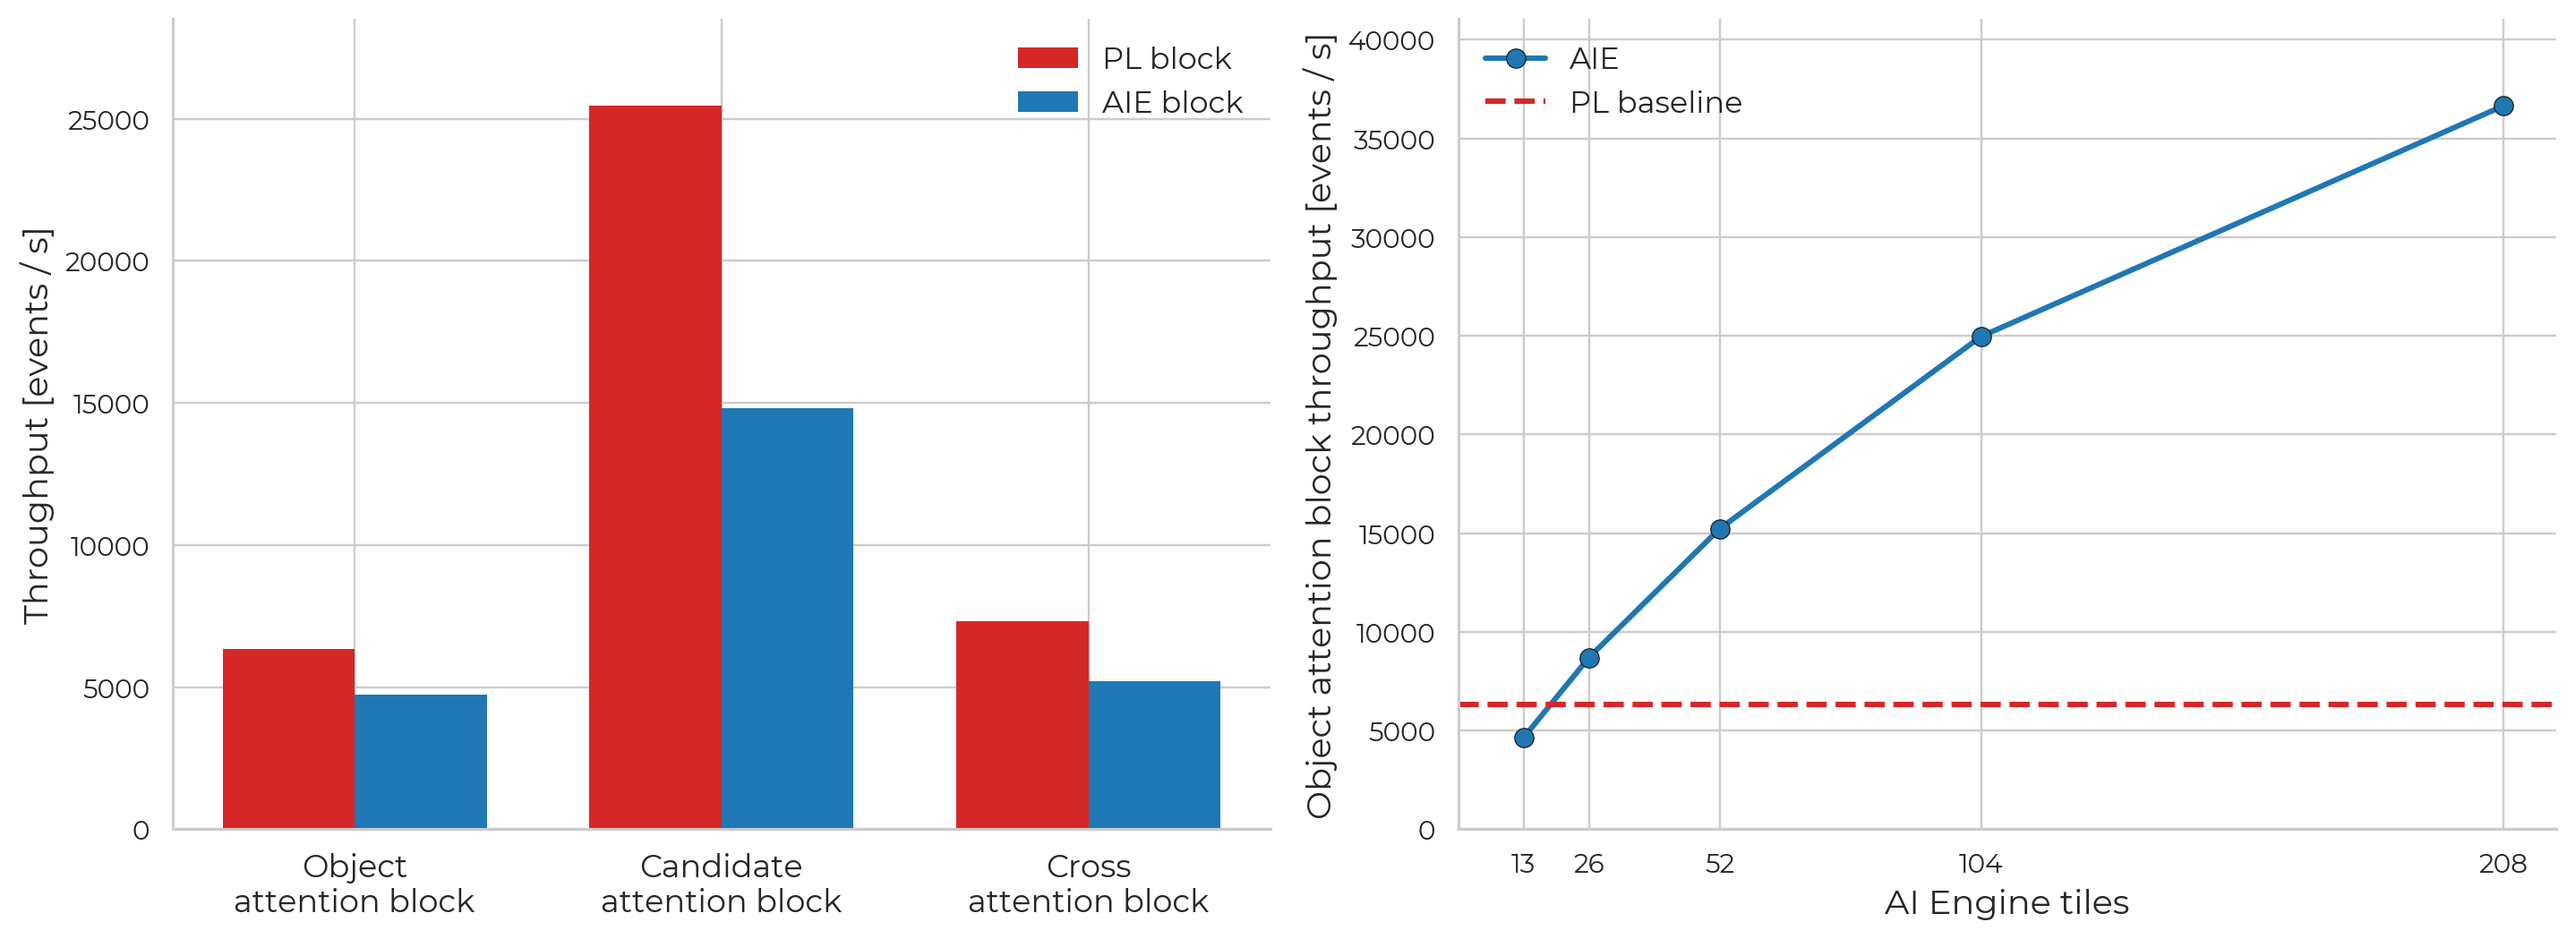
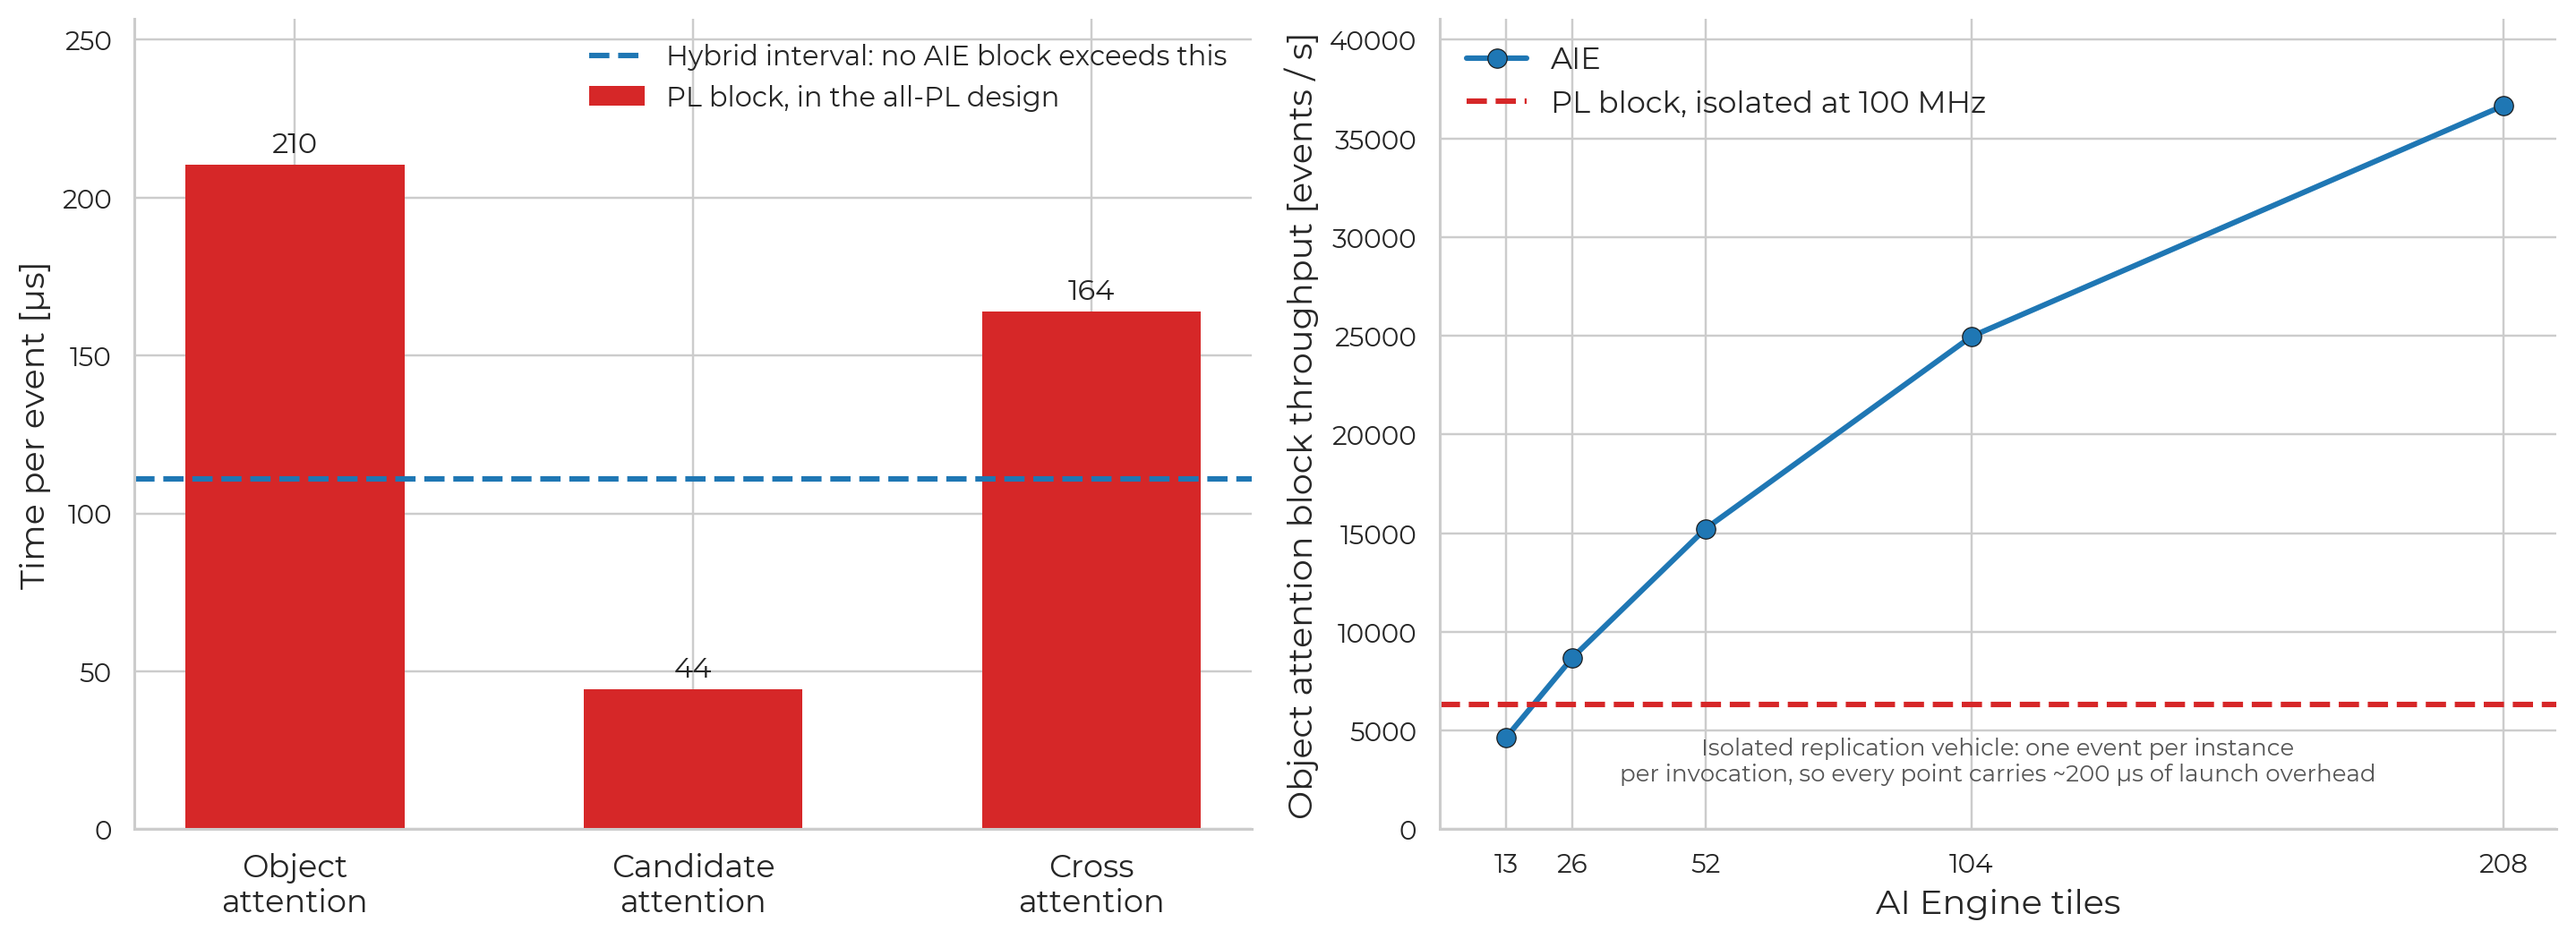
figs: correct the misleading per-block PL vs AIE comparison
The isolated bars were not comparable. The standalone PL blocks link at
100 MHz, but the full PL design closes timing only at 80 MHz at 83% DSP,
and the standalone AIE vehicle sends one event per invocation so its
number was dominated by ~200 us of launch overhead. Read literally the
panel said PL attention beats AIE attention, which the full-system
measurement contradicts.

Panel (a) now shows the per-event cost each block actually incurs in the
shipped designs, with the hybrid's 111 us interval as the bound on every
AIE block. Panel (b) labels its vehicle's overhead.

diff --git a/scripts/make_throughput_charts.py b/scripts/make_throughput_charts.py
@@ -75,20 +75,29 @@ def fig_blocks_and_scaling():
     """Two panels: single-block PL vs AIE, and AIE tile replication."""
     fig, (axb, axs) = plt.subplots(1, 2, figsize=(13.2, 4.9))
 
-    # --- (a) single attention block, PL vs AIE ---
-    blocks = ["Object\nattention block", "Candidate\nattention block",
-              "Cross\nattention block"]
-    pl_v = np.array([6334, 25458, 7307], float)
-    aie_v = np.array([4738, 14808, 5212], float)
+    # --- (a) attention-block cost inside the DEPLOYED designs ---
+    # Earlier isolated-vehicle bars were not comparable: the standalone PL
+    # blocks link at 100 MHz, but the full PL design closes timing only at
+    # 80 MHz (83% DSP), and the standalone AIE vehicle sends one event per
+    # invocation so its number was dominated by ~200 us of launch overhead.
+    # These are the per-event costs the blocks actually incur in the shipped
+    # pipelines: PL from the routed design at its real 80 MHz clock, and the
+    # hybrid's measured 111 us/event interval as the bound on every AIE block
+    # (each one passes every event, so none can be slower than the pipeline).
+    blocks = ["Object\nattention", "Candidate\nattention", "Cross\nattention"]
+    pl_us = np.array([210.3, 44.4, 163.8], float)      # 80 MHz, routed cycles
+    HYB_INTERVAL = 111.0
     xs = np.arange(len(blocks))
-    w = 0.36
-    axb.bar(xs - w/2, pl_v,  width=w, color=PL_C,  label="PL block")
-    axb.bar(xs + w/2, aie_v, width=w, color=AIE_C, label="AIE block")
+    axb.bar(xs, pl_us, width=0.55, color=PL_C, label="PL block, in the all-PL design")
+    for x, v in zip(xs, pl_us):
+        axb.text(x, v + 4, f"{v:.0f}", ha="center", fontsize=10.5)
+    axb.axhline(HYB_INTERVAL, color=AIE_C, lw=2, ls="--",
+                label="Hybrid interval: no AIE block exceeds this")
     axb.set_xticks(xs)
     axb.set_xticklabels(blocks, fontsize=11.5)
-    axb.set_ylabel("Throughput [events / s]", fontsize=12.5)
-    axb.set_ylim(0, pl_v.max() * 1.12)
-    axb.legend(fontsize=11, frameon=False)
+    axb.set_ylabel("Time per event [µs]", fontsize=12.5)
+    axb.set_ylim(0, pl_us.max() * 1.22)
+    axb.legend(fontsize=10, frameon=False, loc="upper right")
 
     # --- (b) AIE tile replication ---
     tiles = np.array([13, 26, 52, 104, 208], float)
@@ -96,10 +105,13 @@ def fig_blocks_and_scaling():
     axs.plot(tiles, meas, "o-", color=AIE_C, lw=2, ms=7,
              markeredgecolor="k", markeredgewidth=0.4, label="AIE")
     axs.axhline(6334, color=PL_C, lw=2, ls="--",
-                label="PL baseline")
+                label="PL block, isolated at 100 MHz")
     axs.set_xticks(tiles)
     axs.set_xlim(0, tiles.max() * 1.05)
     axs.set_xlabel("AI Engine tiles", fontsize=12.5)
+    axs.text(0.5, 0.06, "Isolated replication vehicle: one event per instance\n"
+             "per invocation, so every point carries ~200 µs of launch overhead",
+             transform=axs.transAxes, ha="center", fontsize=8.5, color="#555555")
     axs.set_ylabel("Object attention block throughput [events / s]",
                    fontsize=12.5)
     axs.set_ylim(0, meas.max() * 1.12)
